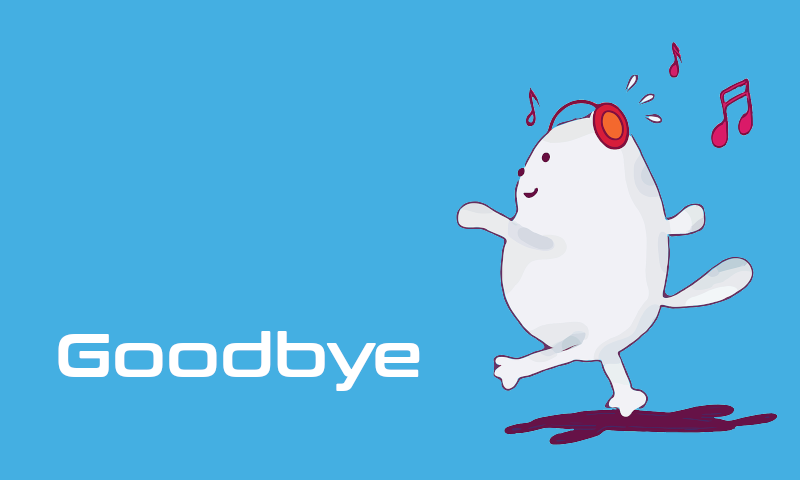
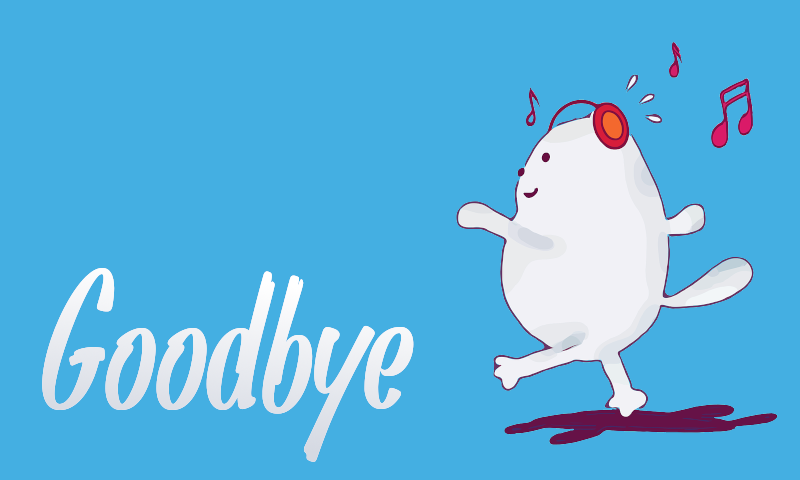
Update Fonts

Changed region(s): [[0.0312, 0.5625, 0.5312, 0.9688]]

diff --git a/README.md b/README.md
@@ -20,7 +20,7 @@ coming soon
 - Spotifyd (https://github.com/Spotifyd/spotifyd)
 - mplayer-wrapper by derhuerst (https://github.com/derhuerst/mplayer-wrapper)
 - google-tts by zlargon (https://github.com/zlargon/google-tts)
-- Font conthrax-sb.ttf by typodermicfonts (https://typodermicfonts.com/)
+- Font Pan Pizza by Mark Lohner (https://www.dafont.com/de/pan-pizza.font?l[]=10&l[]=1&text=MuPiBox)
 - Image by kirillslov (https://pixabay.com/de/vectors/katze-gehen-h%c3%b6ren-musik-kopfh%c3%b6rer-5775898/)
 - Startup-Sound by Zeraora (https://freesound.org/people/Zeraora/sounds/572773/)
 - Shutdown-Sound by Leszek_Szary (https://freesound.org/people/Leszek_Szary/sounds/133283/)
